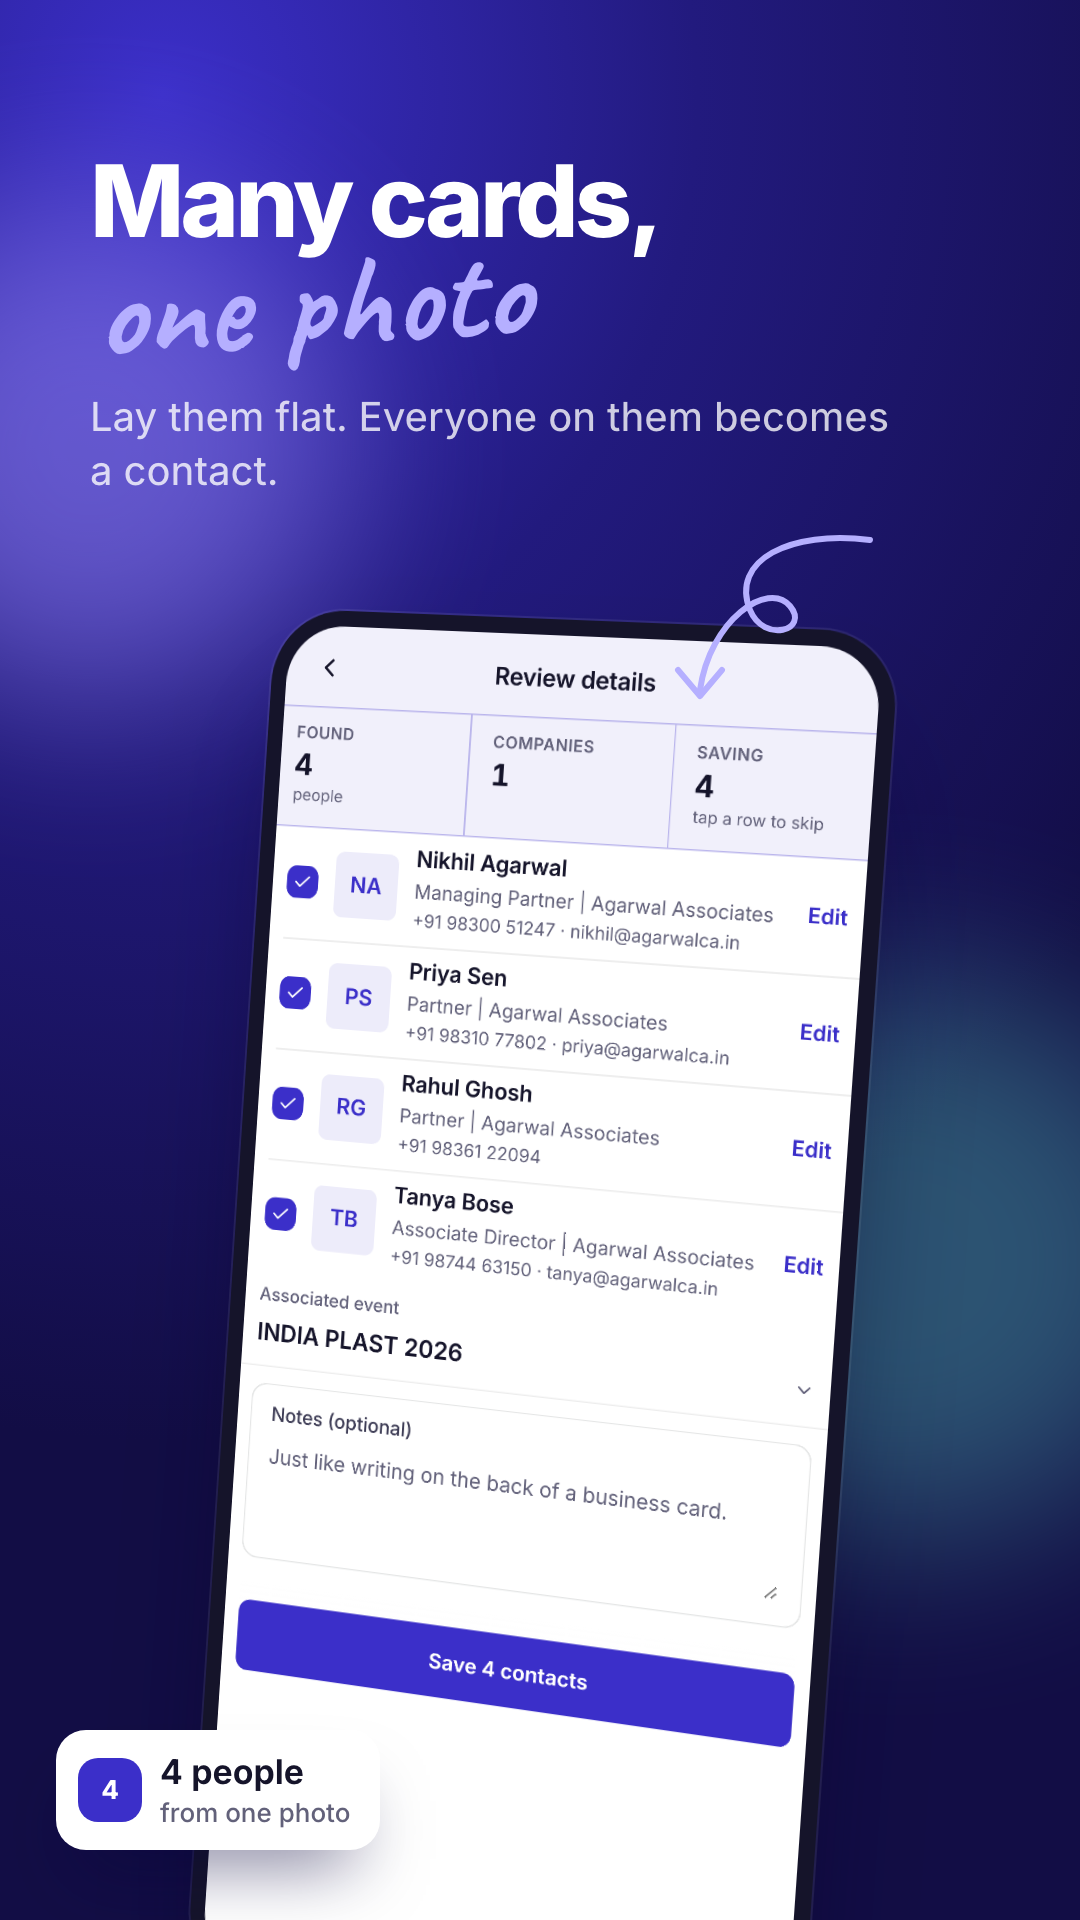
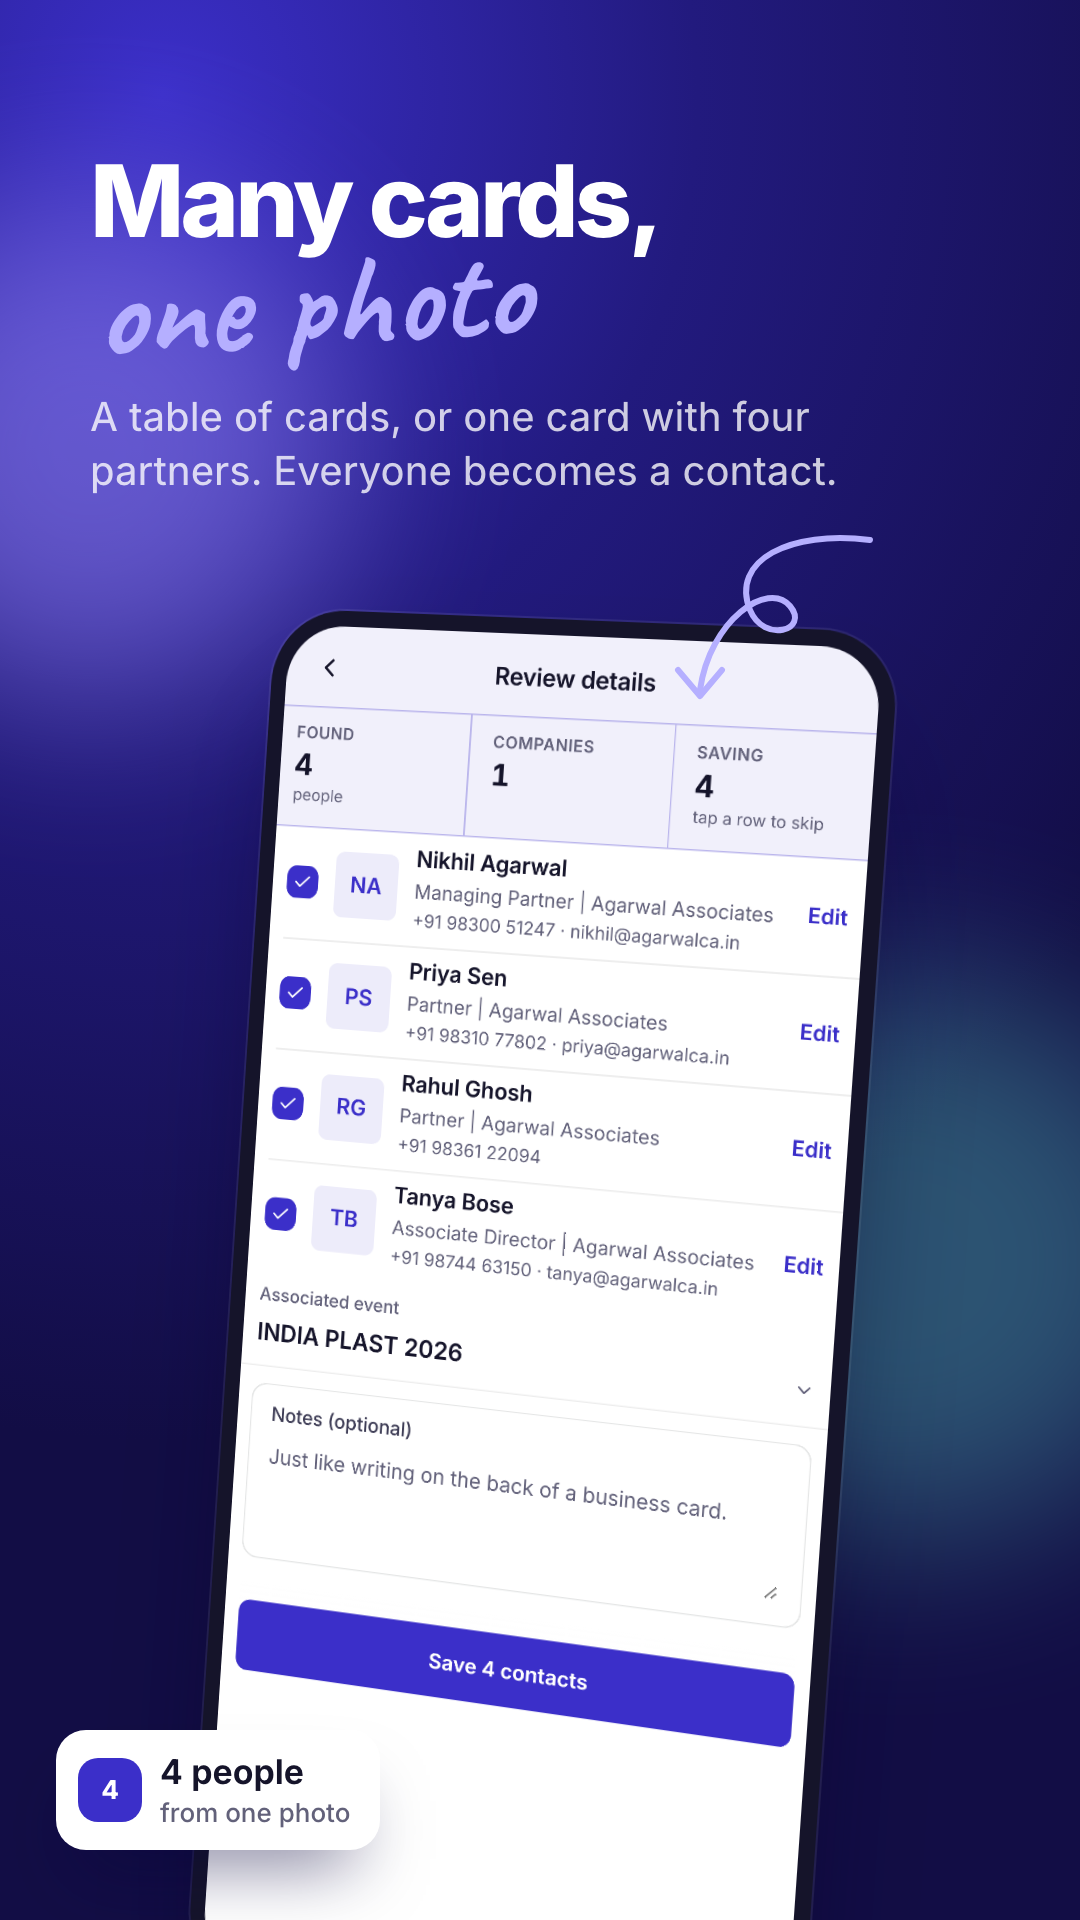
Play listing review fixes: no paid plans advertised before Billing; Data safety names the Gemini paid-tier and contact-address blockers and adds Brief, sync, published photos and user IDs; an account-deletion page; slides show only what their screens show (CSV, the real stall toast, the digital card

Changed region(s): [[0.0917, 0.1875, 0.7639, 0.25]]

diff --git a/public/delete-account.html b/public/delete-account.html
@@ -1,0 +1,48 @@
+<!doctype html>
+<html lang="en">
+<head>
+  <meta charset="UTF-8" />
+  <meta name="viewport" content="width=device-width, initial-scale=1" />
+  <title>Pulse — Delete your account and data</title>
+  <meta name="description" content="How to delete your Pulse account and the data kept with it." />
+  <meta name="color-scheme" content="light dark" />
+  <style>
+    :root { --bg:#F4F5F6; --ink:#16191D; --ink2:rgba(22,25,29,.72); --line:rgba(22,25,29,.1); --accent:#2A2F36; }
+    @media (prefers-color-scheme: dark) { :root { --bg:#111315; --ink:#ECEEF0; --ink2:rgba(236,238,240,.74); --line:rgba(236,238,240,.12); --accent:#C8CDD3; } }
+    * { box-sizing:border-box }
+    body { margin:0; background:var(--bg); color:var(--ink); font:16px/1.6 system-ui,-apple-system,"Segoe UI",Roboto,sans-serif }
+    main { max-width:680px; margin:0 auto; padding:32px 16px 64px }
+    h1 { font-size:28px; margin:0 0 8px } h2 { font-size:20px; margin:32px 0 8px }
+    p, li { color:var(--ink2) } ol, ul { padding-left:22px } li { margin:4px 0 }
+    a { color:var(--accent) } .meta { font-size:14px; color:var(--ink2) }
+  </style>
+</head>
+<body>
+<main>
+  <h1>Delete your Pulse account and data</h1>
+  <p class="meta">Pulse · Business Card Reader</p>
+
+  <h2>Delete the account (everything with it)</h2>
+  <ol>
+    <li>Open Pulse and go to <strong>Settings → Account</strong>.</li>
+    <li>Tap <strong>Delete account</strong> and confirm.</li>
+  </ol>
+  <p>This removes, from our servers: your account, synced contacts and card photos, published card links, details sent
+    to you that have not yet arrived, files added to your events, and your plan, packs and their record. It happens at
+    once. Contacts already on your phone stay there until you delete them (below).</p>
+
+  <h2>Delete only the cloud copy, keep the account</h2>
+  <p><strong>Settings → Account → Delete cloud data</strong> removes synced contacts and photos, published cards and any
+    details not yet received. Your phone keeps its own copy. Your plan, packs and their record are kept, since they are
+    what was paid for.</p>
+
+  <h2>Delete what is on this phone</h2>
+  <p><strong>Settings → Delete all data</strong>, or uninstall the app. Without an account, nothing is kept on our servers.</p>
+
+  <h2>Can't open the app?</h2>
+  <p id="request">Write to us from the email address you signed in with and we will delete the account for you.</p>
+
+  <p class="meta">More detail on what is kept and why: <a href="./privacy.html">Privacy policy</a>.</p>
+</main>
+</body>
+</html>

diff --git a/store/slides/04-digital-card.html b/store/slides/04-digital-card.html
@@ -3,6 +3,7 @@
 <body class="lilac">
 <div class="glow violet" style="width:620px;height:600px;left:-160px;top:900px"></div><div class="glow teal" style="width:520px;height:520px;right:-120px;top:1300px"></div>
 <div class="head"><h1>Your <span style="white-space:nowrap"><span class="hand">digital card</span>,</span> one scan away</h1><p class="sub">Share it on WhatsApp, or let them scan your QR.</p></div>
-<div class="phone" style="left:60px;top:760px;width:560px;transform:rotate(-6deg)"><img src="/store/screens/raw/mycard.png" alt=""></div><div class="phone" style="left:520px;top:700px;width:530px;transform:rotate(5deg)"><img src="/store/screens/raw/share.png" alt=""></div>
-<div class="chip dark" style="left:30px;top:1720px"><i style="background:#25D366">✓</i><span>Shared on WhatsApp</span></div>
+<div class="cut" style="left:61px;top:650px;width:958px;height:548px;transform:rotate(-4deg);background-image:url(/store/screens/raw/mycard.png);background-size:1038px auto;background-position:-40px -171px"></div>
+<div class="cut sheet" style="left:125px;top:1250px;width:915px;height:642px;transform:rotate(3deg);background-image:url(/store/screens/raw/share.png);background-size:915px auto;background-position:0 -1389px"></div>
+<div class="chip dark" style="left:50px;top:1180px"><i style="background:#25D366">✓</i><span>Shared on WhatsApp</span></div>
 </body></html>

diff --git a/store/slides/03-one-photo.html b/store/slides/03-one-photo.html
@@ -2,7 +2,7 @@
 <html lang="en"><head><meta charset="utf-8"><title>Many cards, one photo</title><link rel="stylesheet" href="/store/slides/slide.css"></head>
 <body class="deep">
 <div class="glow teal" style="width:600px;height:560px;right:-120px;top:980px"></div><div class="glow violet" style="width:500px;height:500px;left:-160px;top:200px"></div>
-<div class="head"><h1>Many cards, <span class="hand">one photo</span></h1><p class="sub">Lay them flat. Everyone on them becomes a contact.</p></div>
+<div class="head"><h1>Many cards, <span class="hand">one photo</span></h1><p class="sub">A table of cards, or one card with four partners. Everyone becomes a contact.</p></div>
 <div style="position:absolute;inset:0;perspective:2600px"><div class="phone" style="left:230px;top:620px;transform:rotateY(-14deg) rotateZ(4deg);transform-origin:50% 30%"><img src="/store/screens/raw/review.png" alt=""></div></div>
 <div class="chip" style="left:56px;top:1730px"><i style="background:#3B2FC9">4</i><span>4 people<small>from one photo</small></span></div>
 <svg class="scribble" style="left:640px;top:520px" width="260" height="200" viewBox="0 0 260 200"><path d="M230 20 C 150 10, 90 40, 110 90 C 124 124, 170 110, 150 86 C 128 60, 70 100, 60 170"/><path d="M38 150 L60 176 L82 150"/></svg>

diff --git a/store/slides/07-one-tap.html b/store/slides/07-one-tap.html
@@ -2,7 +2,7 @@
 <html lang="en"><head><meta charset="utf-8"><title>Call or WhatsApp in one tap</title><link rel="stylesheet" href="/store/slides/slide.css"></head>
 <body class="deep">
 <div class="glow teal" style="width:560px;height:520px;left:-140px;top:820px"></div><div class="glow violet" style="width:520px;height:520px;right:-150px;top:1400px"></div>
-<div class="head"><h1>Call or WhatsApp in <span class="hand">one tap</span></h1><p class="sub">Follow-ups due today are right on top.</p></div>
+<div class="head"><h1>Call or WhatsApp in <span class="hand">one tap</span></h1><p class="sub">Call, WhatsApp or email, right from the list.</p></div>
 <div class="phone" style="left:220px;top:660px"><img src="/store/screens/raw/quick.png" alt=""></div>
 <svg class="scribble" style="left:60px;top:1196px" width="230" height="190" viewBox="0 0 230 190"><path d="M14 180 C 30 120, 90 150, 104 110 C 116 76, 74 66, 82 96 C 92 132, 170 80, 214 22"/><path d="M184 20 L216 18 L214 52"/></svg>
 <div class="note" style="left:40px;top:1410px">tap, talk</div>

diff --git a/store/slides/02-exhibition.html b/store/slides/02-exhibition.html
@@ -6,6 +6,6 @@
 <div class="phone" style="left:410px;top:640px"><img src="/store/screens/raw/events.png" alt=""></div>
 <div class="chip" style="left:44px;top:760px"><span class="live">LIVE</span><span>India Plast 2026<small>10 cards · +8 today</small></span></div>
 <div class="chip dark" style="left:44px;top:1160px"><i style="background:#9A4A06">2</i><span>Duplicates flagged</span></div>
-<div class="chip" style="left:44px;top:1420px"><i style="background:#13773F">XLS</i><span>Export to Excel</span></div>
-<div class="chip dark" style="right:36px;top:1680px"><i style="background:#3B2FC9">NG</i><span>Neha Gupta left her details<small>at your stall · just now</small></span></div>
+<div class="chip" style="left:44px;top:1420px"><i style="background:#13773F">CSV</i><span>Export to Excel</span></div>
+<div class="chip dark" style="right:36px;top:1680px"><i style="background:#3B2FC9">QR</i><span>1 new lead from your stall<small>Ready to call, message or save</small></span></div>
 </body></html>

diff --git a/store/slides/06-brief.html b/store/slides/06-brief.html
@@ -4,6 +4,6 @@
 <div class="glow teal" style="width:560px;height:520px;right:-120px;top:900px"></div><div class="glow violet" style="width:520px;height:520px;left:-150px;top:1300px"></div>
 <div class="head"><h1>Never go into a call <span class="hand">cold</span></h1><p class="sub">Pulse Brief reads up on them and their company.</p></div>
 <div class="phone" style="left:220px;top:660px"><img src="/store/screens/raw/brief.png" alt=""></div>
-<div class="chip dark" style="left:60px;top:1660px;white-space:normal;width:640px"><i style="background:#5DD6C8;color:#0B0E10">✦</i><span>Ask how the new Surat plant is coming along<small>Conversation starter</small></span></div>
+<div class="chip dark" style="left:60px;top:1660px;white-space:normal;width:640px"><i style="background:#5DD6C8;color:#0B0E10">✦</i><span>Ask how India Plast is going for them<small>Conversation starter</small></span></div>
 <div class="note" style="right:80px;top:530px">ready before you call</div>
 </body></html>

diff --git a/store/capture/seed.ts b/store/capture/seed.ts
@@ -41,9 +41,9 @@ const RAJESH = person({
   followUp: iso(0), priority: true, tags: ['Hot lead'],
   note: 'Wants 2-colour printed woven sacks, 40k a month. Send samples.',
   brief: {
-    person: 'Rajesh Shah has led ABC Polymers for over a decade and oversees its export business.',
-    company: 'ABC Polymers makes woven polypropylene sacks and FIBC bags in Surat, and has opened a second plant this year.',
-    starters: ['Ask how the new Surat plant is coming along', 'Their exports to Kenya doubled this year'],
+    person: 'Rajesh Shah is a director at ABC Polymers and looks after its sales.',
+    company: 'ABC Polymers is a packaging maker based in Surat, exhibiting at India Plast this year.',
+    starters: ['Ask how India Plast is going for them', 'Ask what they are looking for at the show'],
     links: [], sources: [{ title: 'abcpolymers.in', uri: 'https://abcpolymers.in' }], suggestions: '',
     at: now - 2 * 3_600_000, model: 'sample',
   },

diff --git a/store/slides/slide.css b/store/slides/slide.css
@@ -29,6 +29,10 @@ h1 { font-size: 100px; font-weight: 800; line-height: 1.02; letter-spacing: -.04
 .phone.bare { padding: 0; background: none; border-radius: 56px; overflow: hidden }
 .phone.bare img { border-radius: 56px }
 
+/* cut-outs: a part of a real capture, floating (the card itself, a sheet) */
+.cut { position: absolute; background-repeat: no-repeat; border-radius: 40px; box-shadow: 0 0 0 2px rgba(21,20,42,.06), 0 70px 120px -50px rgba(40,30,140,.5) }
+.cut.sheet { border-radius: 44px 44px 0 0 }
+
 /* floating chips: real-looking content that tells the story without copy */
 .chip { position: absolute; z-index: 6; display: flex; align-items: center; gap: 18px; padding: 22px 30px 22px 22px; border-radius: 30px; background: #fff; color: #15142A;
   font-size: 34px; font-weight: 650; line-height: 1.2; white-space: nowrap; box-shadow: 0 40px 70px -28px rgba(10,6,60,.55) }

diff --git a/vite.config.ts b/vite.config.ts
@@ -39,7 +39,7 @@ export default defineConfig({
           { src: 'pwa-maskable-512x512.png', sizes: '512x512', type: 'image/png', purpose: 'maskable' },
         ],
       },
-      workbox: { globPatterns: ['**/*.{js,css,html,png,woff2,webmanifest}'], navigateFallback: `${base}index.html`, navigateFallbackDenylist: [/privacy\.html$/] },
+      workbox: { globPatterns: ['**/*.{js,css,html,png,woff2,webmanifest}'], navigateFallback: `${base}index.html`, navigateFallbackDenylist: [/privacy\.html$/, /delete-account\.html$/] },
     }),
   ],
 })

diff --git a/store/data-safety.md b/store/data-safety.md
@@ -1,5 +1,15 @@
 # Google Play Data safety: answers (draft, check before submitting)
 
+## Before submitting: two blockers
+
+1. **Move Pulse's Gemini API key to the paid tier.** On the free tier, Google may use submitted content to improve
+   its products (privacy policy, "Card photos you scan"). That's Google using the data for its own purposes, so Play's
+   service-provider exception doesn't apply, and card photos and Pulse Brief fields would have to be declared as
+   **shared**. PRODUCT.md already says a paid tier is needed before real customers. The answers below assume the paid
+   tier. On the free tier, change Photos and Contacts to "Shared: Yes, with Google", and update the privacy policy.
+2. **Choose a private contact address for deletion requests** and add it to `public/delete-account.html` ("Can't open
+   the app?") and to the privacy policy. Today the only route outside the app is a public GitHub issue.
+
 These answers are taken from the privacy policy, `public/privacy.html` (last updated 6 October 2026). Each one cites the
 line it rests on. Check them against the app and the policy as they stand on the day you submit; the form and the
 policy must say the same thing.
@@ -11,7 +21,7 @@ Play Console → App content → Data safety.
 | Question | Answer | Policy line |
 |---|---|---|
 | Does your app collect or share any of the required user data types? | Yes | "With an account (Google sign-in)" |
-| Is all of the user data collected by your app encrypted in transit? | Yes (HTTPS to Supabase, the Pulse reading service and Google) | Supabase and the Cloudflare Worker are HTTPS only |
+| Is all of the user data collected by your app encrypted in transit? | Yes. Every request goes over HTTPS: Supabase, the Pulse reading service (a Cloudflare Worker) and Google | Not stated in the policy. Checked in the app's configuration (`.env.android`: HTTPS URLs only). Consider adding a line to the policy |
 | Do you provide a way for users to request that their data is deleted? | Yes, in the app (Settings → Account → Delete cloud data / Delete account) | "Deleting your data" |
 
 ## Data collected
@@ -22,8 +32,9 @@ Play Console → App content → Data safety.
 |---|---|---|---|---|---|
 | Personal info → **Name** | Yes | No | Required to read cards (sign-in) | Account management | "We receive your name and email address from Google." |
 | Personal info → **Email address** | Yes | No | Required to read cards (sign-in) | Account management | same |
-| Photos and videos → **Photos** | Yes (card photos sent for reading; not stored or logged) | No (processed by Google Gemini as a service provider) | Required to read a card | App functionality | "Card photos you scan … are sent to the Pulse reading service … They are not stored or logged by us." |
-| **Contacts** | Only if the user turns on sync, publishes a card, or collects leads at a stall | No | Optional | App functionality | "Sync, only if you turn it on", "A published card …", "If you sent your details through someone's card" |
+| Personal info → **User IDs** | Yes (the account's ID at Supabase, which ties the plan, synced data and published cards to the account) | No | Required with an account | Account management | "The account, and anything stored with it, is held by Supabase" |
+| Photos and videos → **Photos** | Yes: card photos sent for reading (not stored or logged); card photos stored with the account when sync is on; a published card's photo | No (processed by Google Gemini as a service provider, on the paid tier; see blocker 1) | Reading: required. Sync and publishing: optional | App functionality | "Card photos you scan …", "Sync, only if you turn it on", "A published card …" |
+| **Contacts** | When the user makes a Pulse Brief (the contact's name, title, company, address, website, email domain and GSTIN go through our server to Gemini; company findings are kept for 30 days and reused); with sync on; a published card; leads collected at a stall | No (Gemini as a service provider, paid tier) | Optional | App functionality | "Pulse Brief (a short brief on a contact) …", "Sync …", "A published card …", "If you sent your details through someone's card" |
 | App activity → **App interactions** | Yes (how many cards read and briefs used, and when; nothing about the cards or people) | No | Required with an account | App functionality, account management (the plan balance) | "Your plan and what it has left" |
 | Files and docs → **Files and docs** | Only files the user adds to an event's visitor pack | No | Optional | App functionality | "What visitors get" |
 | Audio → **Voice or sound recordings** | No (dictation uses the phone's own speech recogniser; Pulse records nothing) | — | — | — | "Voice notes … Pulse records nothing." |
@@ -59,5 +70,5 @@ processes data for the app as not "sharing". Policy lines: "passes them to Googl
 - **Target audience:** adults (18+). It's a business tool. ("Pulse is a business tool and is not directed at children.")
 - **Privacy policy URL:** https://prasenjit-sharma.github.io/cardpulse/privacy.html. Open it in a browser and check
   it loads before submitting.
-- **Data deletion URL**, which Play asks for apps with accounts: point to the privacy policy's "Deleting your data"
-  section, or add a short page. Decide before submitting.
+- **Data deletion URL**, which Play requires for apps with accounts: https://prasenjit-sharma.github.io/cardpulse/delete-account.html
+  (`public/delete-account.html`). Add the contact address first (blocker 2).

diff --git a/docs/superpowers/specs/2026-10-08-store-listings-design.md b/docs/superpowers/specs/2026-10-08-store-listings-design.md
@@ -44,7 +44,7 @@ Full description structure: an opening line naming Pulse a business card reader 
 India's expos and trade fairs; then short headed sections in the slide order (scan; exhibition mode; many cards in one
 photo; digital business card; India-first reading; Pulse Brief and conversation starters; call, WhatsApp, save to phone,
 export to Excel); then "Your contacts stay yours" (on-device by default, export any time); then the plan line (20 cards
-a month free; paid plans and packs). Each of "business card scanner/reader", "visiting card", "card reader",
+a month free; paid plans are not mentioned until Play Billing ships: the app cannot sell them yet). Each of "business card scanner/reader", "visiting card", "card reader",
 "exhibition" and "expo" appears naturally, about 2–3% density in total; no keyword lists, no "best" or "#1".
 
 ## Screenshots: `store/screens/`
